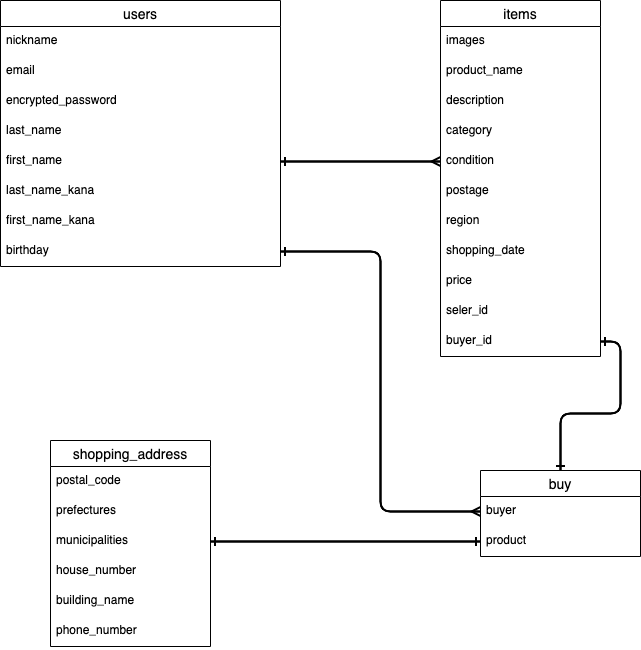
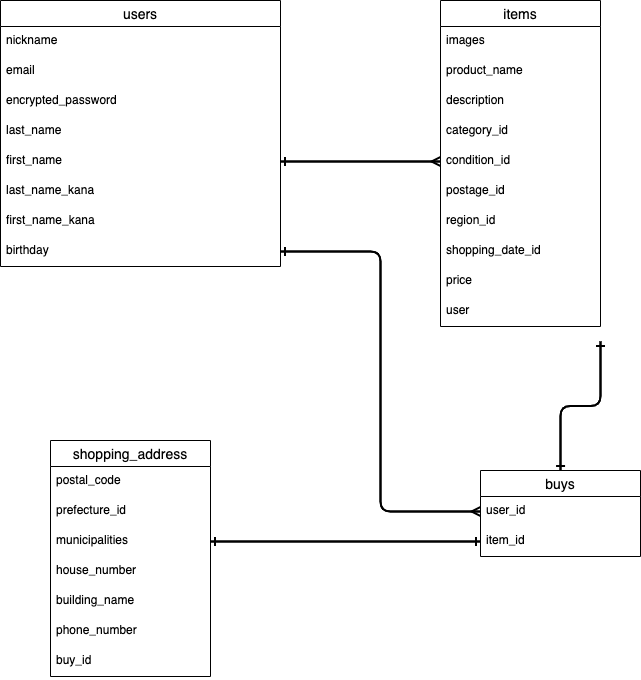
データベース設計　修正1回目

diff --git a/README.md b/README.md
@@ -11,54 +11,58 @@
 | first_name         | string   | null: false               |
 | last_name_kana     | string   | null: false               |
 | first_name_kana    | string   | null: false               |
-| birthday           | string   | null: false               |
+| birthday           | date     | null: false               |
 
 ### Association
 
-- has_many :protocols
-- has_many :comment
+- has_many :items
+- has_many :buys
 
 ## items テーブル
 
-| Column         | Type    | Options                        |
-| ------         | ------  | -----------                    |
-| product_name   | text    | null: false                    |
-| description    | text    | null: false                    |
-| category       | string  | null: false                    |
-| condition      | string  | null: false                    |
-| postage        | string  | null: false                    |
-| region         | string  | null: false                    |
-| shopping_date  | string  | null: false                    |
-| price          | integer | null: false                    |
-| seller_id      | string  | null: false, foreign_key: true |
-| buyer_id       | string  | null: false, foreign_key: true |
+| Column            | Type        | Options                        |
+| ------            | ------      | -----------                    |
+| product_name      | string      | null: false                    |
+| description       | text        | null: false                    |
+| category_id       | integer     | null: false                    |
+| condition_id      | integer     | null: false                    |
+| postage_id        | integer     | null: false                    |
+| region_id         | integer     | null: false                    |
+| shopping_date_id  | integer     | null: false                    |
+| price             | integer     | null: false                    |
+| users             | references  | null: false, foreign_key: true |
 
 
 
 ### Association
 
-- has_many :comment
-- belongs_to :user
+- belongs_tp :users
+- belongs_to :buys
 
 ## shopping_address テーブル
 
 | Column           | Type       |Options                         |
 | ------           | ---------- | ------------------------------ |
-| postal_code      | integer    | null: false, foreign_key: true |
-| prefectures      | string     | null: false, foreign_key: true |
+| postal_code      | string     | null: false                    |
+| prefecture_id    | integer    | null: false                    |
 | municipalities   | string     | null: false                    |
 | house_number     | string     | null: false                    |
-| building_name    | string     | null: false                    |
-| phone_number     | integer    | null: false                    |
+| building_name    | string     |                                |
+| phone_number     | string     | null: false                    |
+| buy              | references | null: false, foreign_key: true |
 
 ### Association
 
-- belongs_to :user
-- belongs_to :protocol
+- belongs_to :buys
 
-## buy テーブル
+## buys テーブル
 
 | Column     | Type       |Options                         |
 | ------     | ---------- | ------------------------------ |
-| buyer      | references | null: false, foreign_key: true |
-| product    | references | null: false, foreign_key: true |
+| users      | references | null: false, foreign_key: true |
+| items      | references | null: false, foreign_key: true |
+
+### Association
+
+- belongs_to :users
+- belongs_to :items
